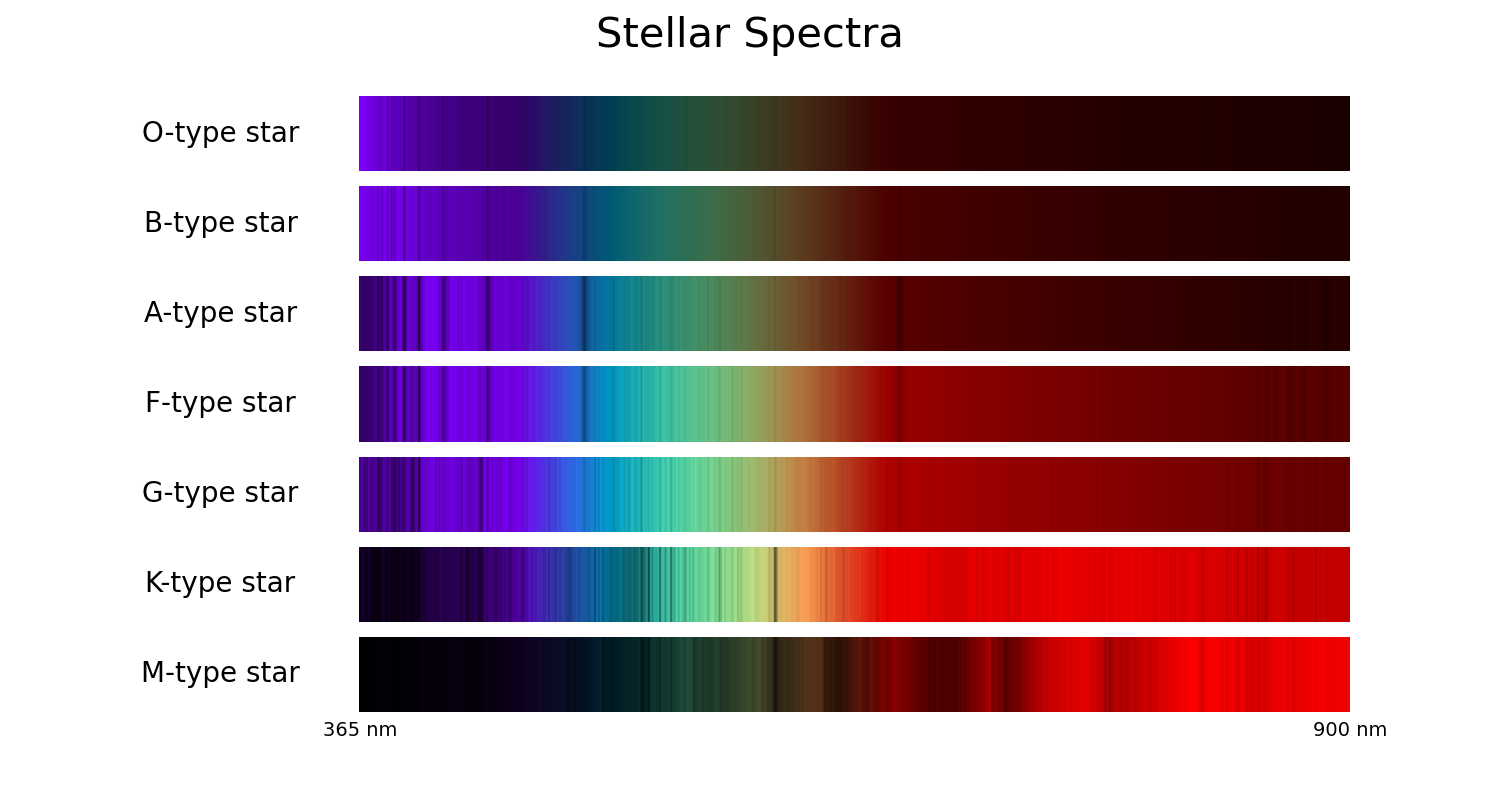
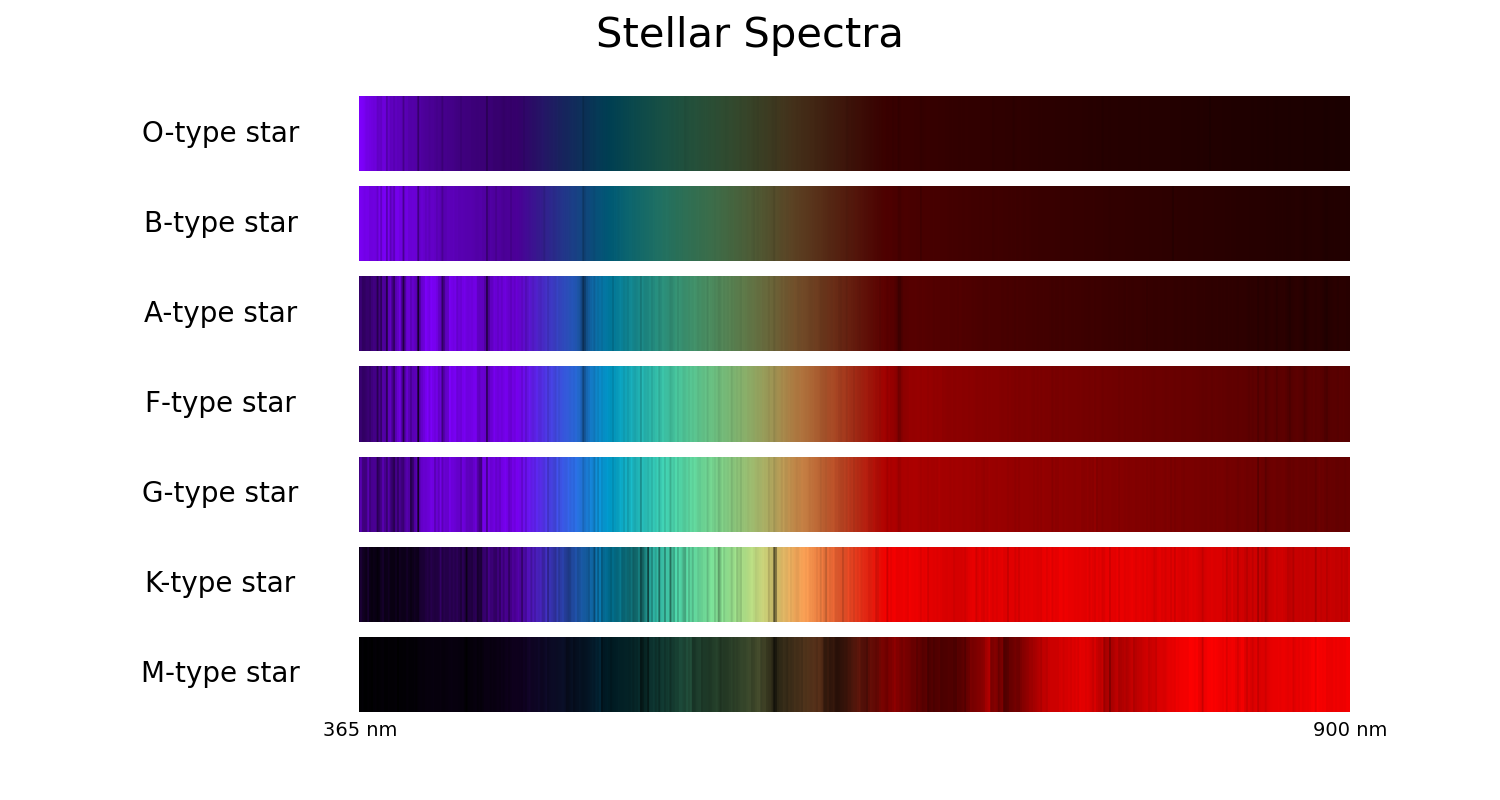
update to take into account half pixel offset

diff --git a/spectral_types_plot.py b/spectral_types_plot.py
@@ -183,11 +183,15 @@ for row in data_table:
         #append this wavelength to the list of spectra
         tmp_spec1.append(tmp_list1)
         tmp_spec2.append(tmp_list2)
+        #this is a hack to take into account the half pixel offset between image and the graph
+        if i0!=lambda_min:
+            tmp_spec1.append(tmp_list1)
+            tmp_spec2.append(tmp_list2)
     #make 300px thick spectra bands
     for i0 in range(0,300):
         tmp_array.append(tmp_spec1)
         tmp_array2.append(tmp_spec2)
-
+    
     #turn arrays into images
     tmp_array1=np.array(tmp_array).astype('uint8')
     tmp_array2=np.array(tmp_array2).astype('uint8')
